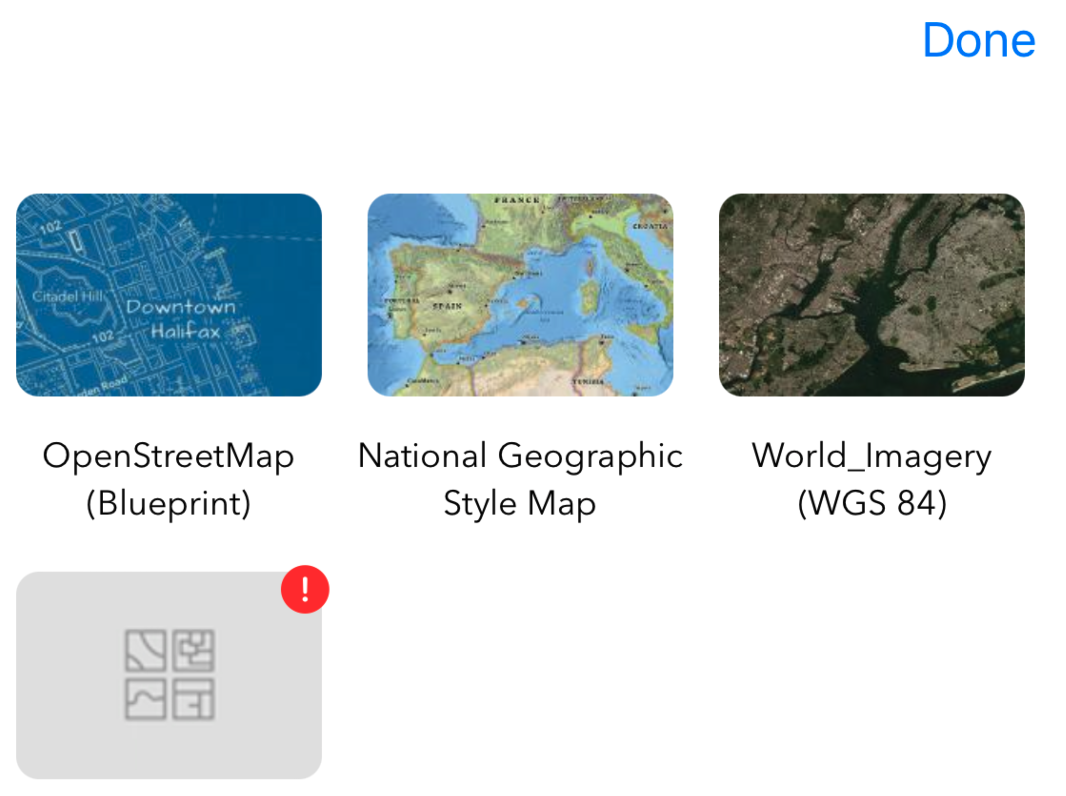
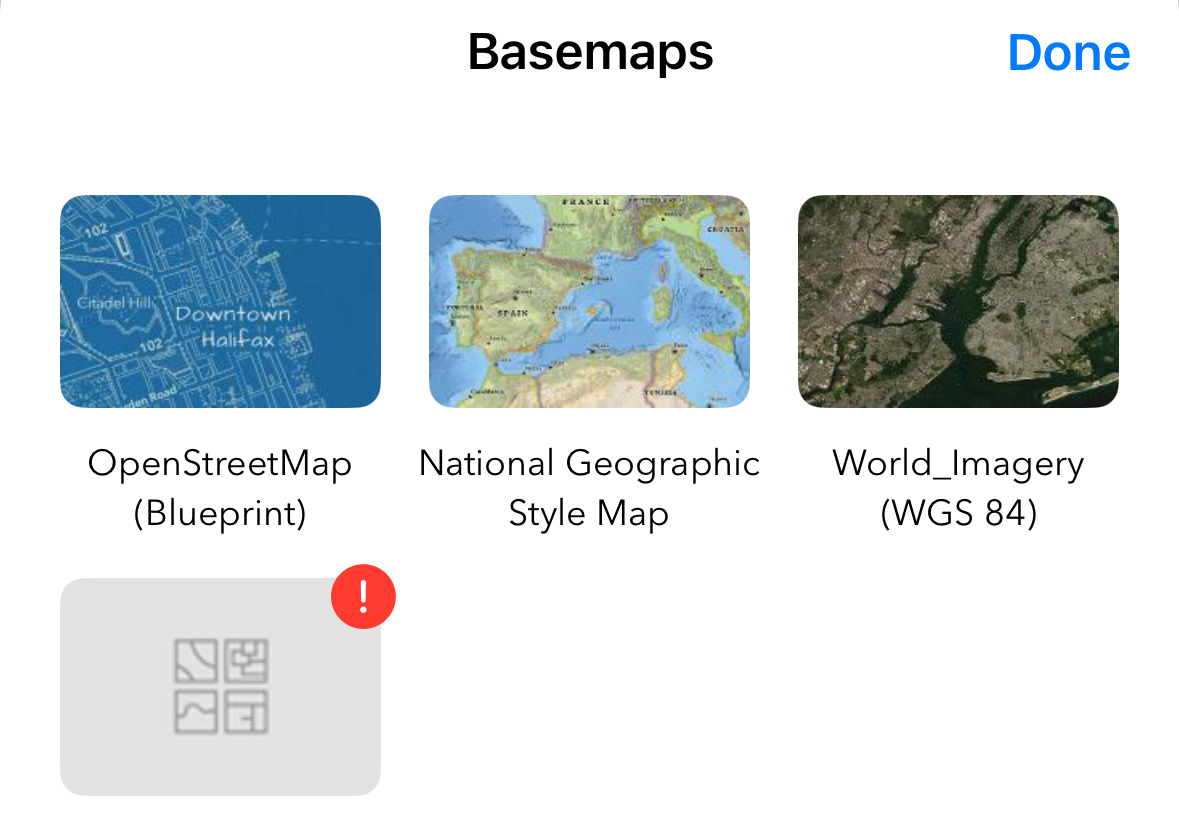
Improve Basemap Gallery example

diff --git a/Examples/Examples/BasemapGalleryExampleView.swift b/Examples/Examples/BasemapGalleryExampleView.swift
@@ -35,32 +35,31 @@ struct BasemapGalleryExampleView: View {
     
     var body: some View {
         MapView(map: map)
-            .sheet(isPresented: $basemapGalleryIsPresented) {
-                VStack(alignment: .trailing) {
-                    doneButton
-                        .padding()
-                    BasemapGallery(items: basemaps, geoModel: map)
-                        .style(.grid(maxItemWidth: 100))
-                        .padding()
-                }
-            }
             .toolbar {
                 ToolbarItem(placement: .navigationBarTrailing) {
-                    Toggle(isOn: $basemapGalleryIsPresented) {
-                        Image("basemap", label: Text("Show base map"))
+                    Button("Show basemaps", image: .basemap) {
+                        basemapGalleryIsPresented = true
+                    }
+                    .sheet(isPresented: $basemapGalleryIsPresented) {
+                        basemapGallerySheet
                     }
                 }
             }
     }
     
-    /// A button that allows a user to close a sheet.
-    ///
-    /// This is especially useful for when the sheet is open an iPhone in landscape.
-    private var doneButton: some View {
-        Button {
-            basemapGalleryIsPresented.toggle()
-        } label: {
-            Text("Done")
+    var basemapGallerySheet: some View {
+        NavigationStack {
+            BasemapGallery(items: basemaps, geoModel: map)
+                .style(.grid(maxItemWidth: 100))
+                .navigationTitle("Basemaps")
+                .navigationBarTitleDisplayMode(.inline)
+                .toolbar {
+                    ToolbarItem(placement: .confirmationAction) {
+                        Button("Done") {
+                            basemapGalleryIsPresented = false
+                        }
+                    }
+                }
         }
     }
     

diff --git a/Sources/ArcGISToolkit/Documentation.docc/Resources/BasemapGallery/BasemapGalleryStep5.swift b/Sources/ArcGISToolkit/Documentation.docc/Resources/BasemapGallery/BasemapGalleryStep5.swift
@@ -18,29 +18,31 @@ struct BasemapGalleryExampleView: View {
     
     var body: some View {
         MapView(map: map)
-            .sheet(isPresented: $basemapGalleryIsPresented) {
-                VStack(alignment: .trailing) {
-                    doneButton
-                        .padding()
-                    BasemapGallery(items: basemaps, geoModel: map)
-                        .style(.grid(maxItemWidth: 100))
-                        .padding()
-                }
-            }
             .toolbar {
                 ToolbarItem(placement: .navigationBarTrailing) {
-                    Toggle(isOn: $basemapGalleryIsPresented) {
-                        Image("basemap", label: Text("Show base map"))
+                    Button("Show basemaps", image: .basemap) {
+                        basemapGalleryIsPresented = true
+                    }
+                    .sheet(isPresented: $basemapGalleryIsPresented) {
+                        basemapGallerySheet
                     }
                 }
             }
     }
     
-    private var doneButton: some View {
-        Button {
-            basemapGalleryIsPresented.toggle()
-        } label: {
-            Text("Done")
+    var basemapGallerySheet: some View {
+        NavigationStack {
+            BasemapGallery(items: basemaps, geoModel: map)
+                .style(.grid(maxItemWidth: 100))
+                .navigationTitle("Basemaps")
+                .navigationBarTitleDisplayMode(.inline)
+                .toolbar {
+                    ToolbarItem(placement: .confirmationAction) {
+                        Button("Done") {
+                            basemapGalleryIsPresented = false
+                        }
+                    }
+                }
         }
     }
     

diff --git a/Sources/ArcGISToolkit/Documentation.docc/Resources/BasemapGallery/BasemapGalleryStep4.swift b/Sources/ArcGISToolkit/Documentation.docc/Resources/BasemapGallery/BasemapGalleryStep4.swift
@@ -18,18 +18,21 @@ struct BasemapGalleryExampleView: View {
     
     var body: some View {
         MapView(map: map)
-            .sheet(isPresented: $basemapGalleryIsPresented) {
-                BasemapGallery(items: basemaps, geoModel: map)
-                    .style(.grid(maxItemWidth: 100))
-                    .padding()
-            }
             .toolbar {
                 ToolbarItem(placement: .navigationBarTrailing) {
-                    Toggle(isOn: $basemapGalleryIsPresented) {
-                        Image("basemap", label: Text("Show base map"))
+                    Button("Show basemaps", image: .basemap) {
+                        basemapGalleryIsPresented = true
+                    }
+                    .sheet(isPresented: $basemapGalleryIsPresented) {
+                        basemapGallerySheet
                     }
                 }
             }
+    }
+    
+    var basemapGallerySheet: some View {
+        BasemapGallery(items: basemaps, geoModel: map)
+            .style(.grid(maxItemWidth: 100))
     }
     
     private static func makeBasemapGalleryItems() -> [BasemapGalleryItem] {

diff --git a/Sources/ArcGISToolkit/Documentation.docc/Resources/BasemapGallery/BasemapGalleryStep3.swift b/Sources/ArcGISToolkit/Documentation.docc/Resources/BasemapGallery/BasemapGalleryStep3.swift
@@ -18,10 +18,12 @@ struct BasemapGalleryExampleView: View {
     
     var body: some View {
         MapView(map: map)
-            .sheet(isPresented: $basemapGalleryIsPresented) {
-                BasemapGallery(items: basemaps, geoModel: map)
-                    .style(.grid(maxItemWidth: 100))
-                    .padding()
+            .toolbar {
+                ToolbarItem(placement: .navigationBarTrailing) {
+                    Button("Show basemaps", image: .basemap) {
+                        basemapGalleryIsPresented = true
+                    }
+                }
             }
     }
     

diff --git a/Sources/ArcGISToolkit/Components/BasemapGallery/BasemapGallery.swift b/Sources/ArcGISToolkit/Components/BasemapGallery/BasemapGallery.swift
@@ -216,6 +216,7 @@ private extension BasemapGallery {
                 }
             }
         }
+        .padding()
     }
 }
 
